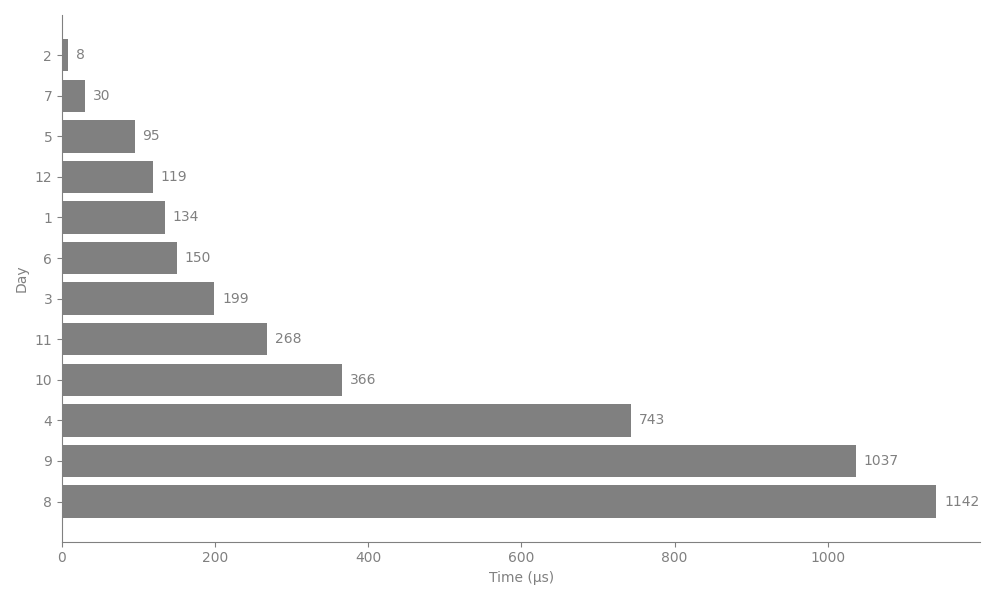
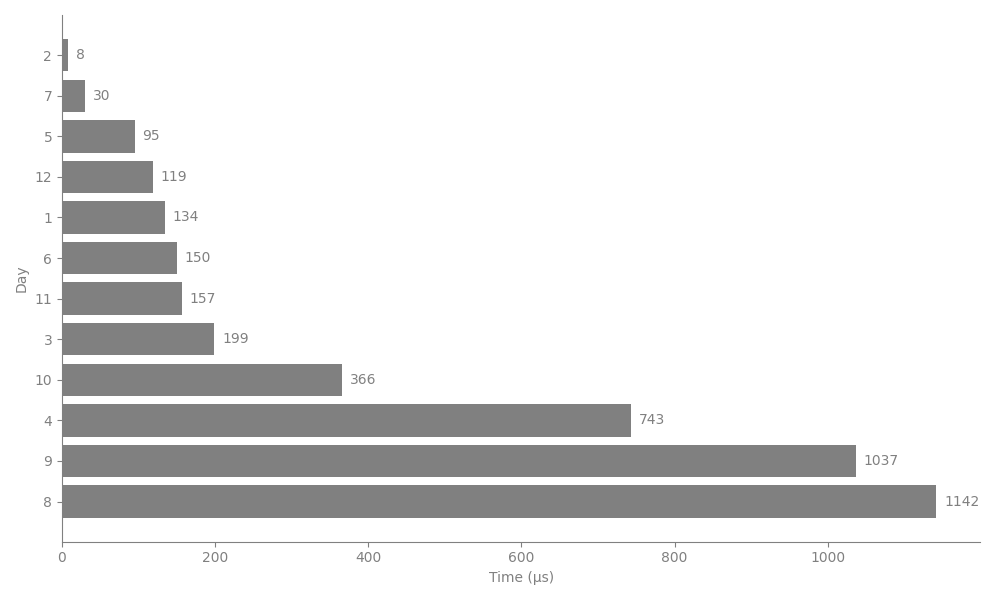
Fix small things and bring eleven home

Changed region(s): [[0.217, 0.54, 0.31, 0.6], [0.155, 0.45, 0.248, 0.54], [0.031, 0.48, 0.062, 0.51]]

diff --git a/2025/11/aoc11.go b/2025/11/aoc11.go
@@ -28,7 +28,7 @@ func main() {
 
 	// id returns the unique integer ID for a 3-letter tags
 	id := func(s string) int {
-		k := idh(s) // compute hash key
+		k := int(s[0]-'a')*26*26 + int(s[1]-'a')*26 + int(s[2]-'a') // hash
 
 		// lazily assign ID
 		if IDs[k] == NullID { // check if not assigned yet
@@ -39,9 +39,13 @@ func main() {
 		return IDs[k]
 	}
 
-	// read graph edges as adjacency lists
+	// preallocate small adjacency lists
 	edges := make([][]int, MaxID)
+	for i := range edges {
+		edges[i] = make([]int, 0, 8)
+	}
 
+	// read graph edges as adjacency lists
 	input := bufio.NewScanner(os.Stdin)
 	for input.Scan() {
 		// parse line: "src: dst1 dst2 dst3 ..."
@@ -82,23 +86,33 @@ func main() {
 	// part 2 use DP to count all paths from 'svr' to 'out' that contain both 'dac' and 'fft'
 	svr, dac, fft := id("svr"), id("dac"), id("fft")
 
-	dp := make(map[uint32]int)
+	// dp := make(map[uint32]int)
 
-	// presence map to avoid cycles
-	seen := make([]uint8, MaxID)
+	var dp [MaxID * 4]int // memoization table
+	for i := range dp {
+		dp[i] = Unknown
+	}
+
+	dpk := func(cur int, hasDac, hasFft bool) int {
+		k := cur << 2
+		if hasDac {
+			k |= 1 << 1
+		}
+
+		if hasFft {
+			k |= 1
+		}
+
+		return k
+	}
 
 	var recount func(cur int, hasDac, hasFft bool) int
 
 	recount = func(cur int, hasDac, hasFft bool) int {
 		k := dpk(cur, hasDac, hasFft) // unique key
 
-		// cycle detection
-		if seen[cur] == Seen {
-			return 0
-		}
-
 		// memoization check
-		if count, ok := dp[k]; ok {
+		if count := dp[k]; count != Unknown {
 			return count
 		}
 
@@ -110,19 +124,14 @@ func main() {
 			return 0
 		}
 
-		seen[cur] = Seen                      // mark current node as seen
-		defer func() { seen[cur] = Unseen }() // backtrack on return
-
 		// explore neighbors
 		count := 0
 		for _, nxt := range edges[cur] {
-			if seen[nxt] == Unseen { // recurse only if not already visited
-				count += recount(
-					nxt,
-					hasDac || nxt == dac,
-					hasFft || nxt == fft,
-				)
-			}
+			count += recount(
+				nxt,
+				hasDac || nxt == dac,
+				hasFft || nxt == fft,
+			)
 		}
 
 		// memoize and return
@@ -135,34 +144,10 @@ func main() {
 	fmt.Println(acc1, acc2, time.Since(t0))
 }
 
-const (
-	// sugars for presence map
-	Unseen = iota
-	Seen
-)
+const Unknown = -1 // unseen DP states
 
 const (
 	// MaxID is the maximum number of unique 3-letter IDs expected in input
 	MaxID  = 616
 	NullID = 0 // null ID value is invalid
 )
-
-// idh computes a hash for a 3-letter string
-func idh(s string) int {
-	return int(s[0]-'a')*26*26 + int(s[1]-'a')*26 + int(s[2]-'a')
-}
-
-// dpk computes a unique key for DP memoization
-func dpk(cur int, hasDac, hasFft bool) uint32 {
-	k := uint32(cur) << 2
-
-	if hasDac {
-		k |= 1 << 1
-	}
-
-	if hasFft {
-		k |= 1
-	}
-
-	return k
-}

diff --git a/2025/3/aoc3.go b/2025/3/aoc3.go
@@ -66,8 +66,6 @@ type seq struct {
 func newSeq() *seq {
 	return &seq{
 		digits: make([]byte, 0, MaxDigits), // preallocate
-		size:   0,
-		krem:   0,
 	}
 }
 
@@ -79,18 +77,20 @@ func (s *seq) reset(size, inputSize int) {
 	s.krem = inputSize - size // authorized removals
 }
 
-// push a new digit, removing larger trailing digits if possible
+// push a new digit, removing lesser trailing digits if possible
 // to keep the sequence lexicographically largest
 func (s *seq) push(c byte) {
+	sz := len(s.digits)
+
 	// find how many trailing digits to remove
-	sz, n := len(s.digits), 0
-	for s.krem > n && sz-n > 0 && c > s.peek(n) {
-		n++
+	i := 0
+	for s.krem > i && sz-i > 0 && c > s.peek(i) {
+		i++
 	}
 
 	// remove trailing digits
-	s.digits = s.digits[:sz-n]
-	s.krem -= n // use up removals
+	s.digits = s.digits[:sz-i]
+	s.krem -= i // use up removals
 
 	// add new digit
 	s.digits = append(s.digits, c)

diff --git a/2025/8/aoc8.go b/2025/8/aoc8.go
@@ -19,7 +19,7 @@ import (
 	"time"
 )
 
-const N = 1000                 // challenge threshold
+const MaxPoints = 1000         // challenge threshold
 const CutoffDist = 196_000_000 // edge squared distance cutoff from prior runs
 
 func main() {
@@ -27,12 +27,12 @@ func main() {
 
 	var acc1, acc2 int // parts 1 and 2 accumulators
 
-	points := make([]point, 0, N)
+	points := make([]point, 0, MaxPoints)
 
 	input := bufio.NewScanner(os.Stdin)
 
 	for input.Scan() {
-		fields := bytes.Split(input.Bytes(), []byte(","))
+		fields := bytes.SplitN(input.Bytes(), []byte(","), 3)
 
 		points = append(points, point{
 			X: atoi(fields[0]),

diff --git a/2025/8/aoc8_test.go b/2025/8/aoc8_test.go
@@ -1,0 +1,32 @@
+package main
+
+import (
+	"bytes"
+	"testing"
+)
+
+var sink []byte
+
+func BenchmarkCut(b *testing.B) {
+	s := []byte("1234567890-1234567890")
+	var x, y []byte
+
+	for b.Loop() {
+		x, y, _ = bytes.Cut(s, []byte("-"))
+	}
+
+	sink = x // prevent optimization
+	sink = y
+}
+
+func BenchmarkSplitN(b *testing.B) {
+	s := []byte("1234567890-1234567890")
+
+	var x [][]byte
+
+	for b.Loop() {
+		x = bytes.SplitN(s, []byte("-"), 2)
+	}
+
+	sink = x[0] // prevent optimization
+}

diff --git a/2025/barchart.py b/2025/barchart.py
@@ -1,8 +1,8 @@
 import matplotlib.pyplot as plt
 
 # Data
-days = ["2", "7", "5", "12", "1", "6", "3", "11", "10", "4", "9", "8"]
-times = [8, 30, 95, 119, 134, 150, 199, 268, 366, 743, 1037, 1142]
+days = ["2", "7", "5", "12", "1", "6", "11", "3", "10", "4", "9", "8"]
+times = [8, 30, 95, 119, 134, 150, 157, 199, 366, 743, 1037, 1142]
 
 # Colors and text color
 bar_color = "#808080"  # medium gray bars

diff --git a/2025/10/aoc10.go b/2025/10/aoc10.go
@@ -217,12 +217,14 @@ func parse(input *bufio.Scanner) iter.Seq[mach] {
 
 				for b := range bytes.SplitSeq(f, []byte(",")) {
 					n := atoi(b)
+
 					w = max(w, n)
 					flips[i] |= 1 << n
 				}
 			}
 			// add dummy switch for bounding
 			flips[len(sfields)] = w + 1
+
 			// joltages
 			jfield := fields[len(fields)-1]
 			jfield = jfield[1 : len(jfield)-1] // trim brackets

diff --git a/2025/README.md b/2025/README.md
@@ -1,6 +1,6 @@
 # Summary
 
-This repository contains optimized solutions for Advent of Code 2025, implemented in [Go](https://en.wikipedia.org/wiki/Go_(programming_language)) with a focus on performance and educational value. The whole collection runs all days and all parts in about 4.3 ms. Each day is solved in a single, dependency-free [Go](https://go.dev) file.
+This repository contains optimized solutions for Advent of Code 2025, implemented in [Go](https://en.wikipedia.org/wiki/Go_(programming_language)) with a focus on performance and educational value. The whole collection runs all days and all parts in about 4.2 ms. Each day is solved in a single, dependency-free [Go](https://go.dev) file.
 
 ## Quick Navigation
 
@@ -65,18 +65,18 @@ This repository contains optimized solutions for Advent of Code 2025, implemente
 | Day                                | Time (μs) |  % of Total |
 | ---------------------------------- | --------: | ----------: |
 | [**2**](#day-2-gift-shop-)         |         8 |       0.19% |
-| [7](#day-7-laboratories-)          |        30 |       0.70% |
-| [5](#day-5-cafeteria-)             |        95 |       2.21% |
-| [12](#day-12-christmas-tree-farm-) |       119 |       2.77% |
-| [1](#day-1-secret-entrance-)       |       134 |       3.12% |
-| [6](#day-6-trash-compactor-)       |       150 |       3.50% |
-| [3](#day-3-lobby-)                 |       199 |       4.64% |
-| [11](#day-11-reactor-)             |       268 |       6.25% |
-| [10](#day-10-factory-)             |       366 |       8.53% |
-| [4](#day-4-printing-department-)   |       743 |      17.32% |
-| [9](#day-9-movie-theater-)         |     1,037 |      24.18% |
-| [8](#day-8-playground-)            |     1,142 |      26.63% |
-| **Total**                          | **4,291** | **100.00%** |
+| [7](#day-7-laboratories-)          |        30 |       0.73% |
+| [5](#day-5-cafeteria-)             |        95 |       2.31% |
+| [12](#day-12-christmas-tree-farm-) |       119 |       2.90% |
+| [1](#day-1-secret-entrance-)       |       134 |       3.26% |
+| [6](#day-6-trash-compactor-)       |       150 |       3.65% |
+| [11](#day-11-reactor-)             |       157 |       3.82% |
+| [3](#day-3-lobby-)                 |       199 |       4.84% |
+| [10](#day-10-factory-)             |       366 |       8.91% |
+| [4](#day-4-printing-department-)   |       743 |      18.08% |
+| [9](#day-9-movie-theater-)         |     1,037 |      25.24% |
+| [8](#day-8-playground-)            |     1,130 |      27.50% |
+| **Total**                          | **4,108** | **100.00%** |
 
 fastest of 100 runs for part1&2 in μs - mbair M1/16GB - darwin 24.6.0 - go1.25.3 darwin/arm64 with greentea GC - 2025-12
 
@@ -646,7 +646,7 @@ go clean
 rm -f aoc12
 ```
 
-My collection runs all problems for the entire edition in roughly ~~`~9ms`~~ `4.6ms`.
+My collection runs all problems for the entire edition in roughly `4.2ms`.
 
 ## How was it? [↑](#summary)
 
